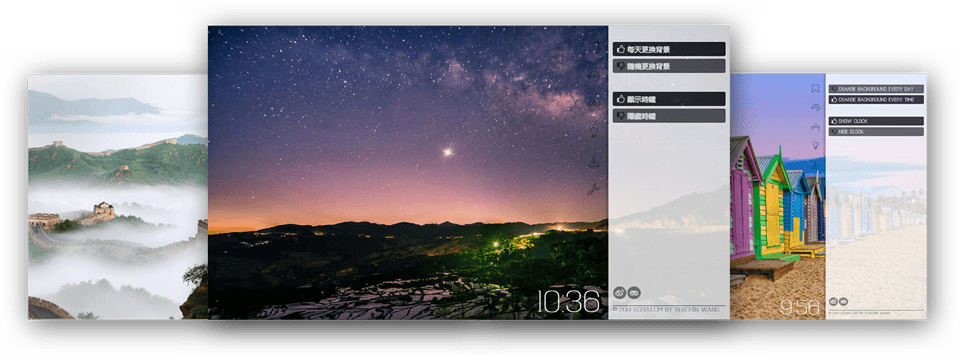
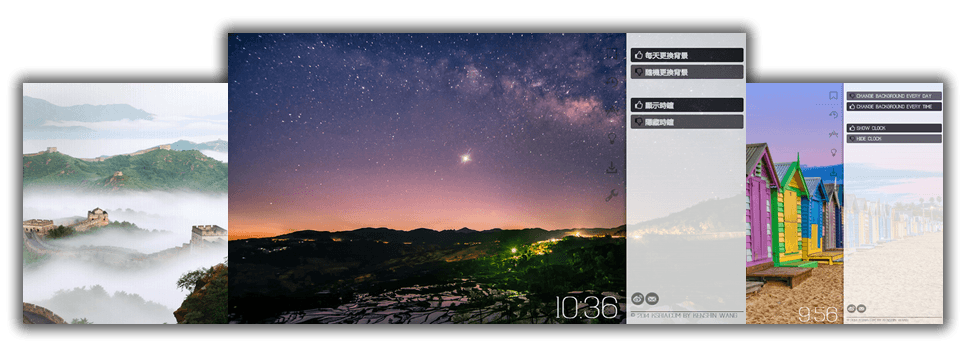
optimize design

diff --git a/assets/css/main.css b/assets/css/main.css
@@ -1,1 +1,1 @@
-@font-face{src:url("../font/en.otf") format(opentype);font-family:en}html{width:100%;height:100%}body{display:-webkit-box;display:-moz-box;display:-o-box;display:-ms-box;-webkit-box-flex:1;-moz-box-flex:1;-o-box-flex:1;-ms-box-flex:1;-webkit-box-orient:vertical;-moz-box-orient:vertical;-o-box-orient:vertical;-ms-box-orient:vertical;width:100%;height:100%;margin:0;padding:0;font-family:en;font-weight:bold;background:url("/assets/image/bg.png") repeat;}body div{display:-webkit-box;display:-moz-box;display:-o-box;display:-ms-box;-webkit-box-pack:center;-moz-box-pack:center;-o-box-pack:center;-ms-box-pack:center;-webkit-box-align:center;-moz-box-align:center;-o-box-align:center;-ms-box-align:center}hr{width:100%;height:1px;border:0;background-image:-webkit-linear-gradient(left,rgba(0,0,0,0),rgba(0,0,0,0.1),rgba(0,0,0,0))}.top{height:50px}.title h1{font-size:50px}.title span{display:block;position:relative;left:181px;bottom:64px;width:24px;height:24px;background:url("/assets/image/chrome.png") no-repeat}.download{display:-webkit-box;display:-moz-box;display:-o-box;display:-ms-box;-webkit-box-align:end;-moz-box-align:end;-o-box-align:end;-ms-box-align:end;padding:0 0 33px 0}.btn-download{display:-webkit-box;display:-moz-box;display:-o-box;display:-ms-box;padding:15px;color:#fff;font-size:43px;text-shadow:#136491 0 1px 2px;text-decoration:none;background:linear-gradient(to bottom,#2fa6e4,#2292cc) #2292cc repeat-x;border-color:#066397;-webkit-box-shadow:inset 0 1px 0 rgba(255,255,255,0.2);-moz-box-shadow:inset 0 1px 0 rgba(255,255,255,0.2);-o-box-shadow:inset 0 1px 0 rgba(255,255,255,0.2);-ms-box-shadow:inset 0 1px 0 rgba(255,255,255,0.2);border-radius:6px;-webkit-border-radius:6px;-moz-border-radius:6px;-o-border-radius:6px;-ms-border-radius:6px;}.btn-download span{display:block;width:48px;height:48px;background:url("/assets/image/webstore.png") no-repeat}.btn-download:hover{text-decoration:none;background-position:0 -15px;transition:background-position .1s linear;-webkit-transition:background-position .1s linear;-moz-transition:background-position .1s linear;-o-transition:background-position .1s linear;-ms-transition:background-position .1s linear}.btn-offline-download{padding:0 2px;text-decoration:none;color:#000;}.btn-offline-download:hover{background-color:rgba(0,0,0,0.4);transition:background-color 1s ease;-webkit-transition:background-color 1s ease;-moz-transition:background-color 1s ease;-o-transition:background-color 1s ease;-ms-transition:background-color 1s ease;border-radius:3px;-webkit-border-radius:3px;-moz-border-radius:3px;-o-border-radius:3px;-ms-border-radius:3px}.smaller{font-size:10px}.main{padding:0 0 33px 0;}.main div{-webkit-box-orient:vertical;-moz-box-orient:vertical;-o-box-orient:vertical;-ms-box-orient:vertical}.main img{width:960px;height:335px;border:0;padding:0 0 33px 0}.content{width:100%;-webkit-box-align:start;-moz-box-align:start;-o-box-align:start;-ms-box-align:start;}.content ul{width:100%;}.content ul li{display:-webkit-box;display:-moz-box;display:-o-box;display:-ms-box;-webkit-box-orient:horizontal;-moz-box-orient:horizontal;-o-box-orient:horizontal;-ms-box-orient:horizontal;-webkit-box-flex:1;-moz-box-flex:1;-o-box-flex:1;-ms-box-flex:1;-webkit-box-align:center;-moz-box-align:center;-o-box-align:center;-ms-box-align:center;list-style:none;width:100%;}.content ul li div{width:410px;height:270px}.content ul li span{display:-webkit-box;display:-moz-box;display:-o-box;display:-ms-box;-webkit-box-flex:1;-moz-box-flex:1;-o-box-flex:1;-ms-box-flex:1;-webkit-box-align:center;-moz-box-align:center;-o-box-align:center;-ms-box-align:center}.content ul li:nth-of-type(even){-webkit-box-pack:end;-moz-box-pack:end;-o-box-pack:end;-ms-box-pack:end}.content ul li:nth-of-type(1) div{background:url("/assets/image/mutil-language.png") no-repeat}.content ul li:nth-of-type(2) div{background:url("/assets/image/infomation.png") no-repeat}.content ul li:nth-of-type(2) span{-webkit-box-pack:end;-moz-box-pack:end;-o-box-pack:end;-ms-box-pack:end}.content ul li:nth-of-type(3) div{background:url("/assets/image/download.png") no-repeat}.footer{-webkit-box-orient:vertical;-moz-box-orient:vertical;-o-box-orient:vertical;-ms-box-orient:vertical;background-color:#333;color:#fff;}.footer .copyright{padding:0 0 10px 0}.footer a{padding:0 2px;color:#fff;}.footer a:hover{color:#000;background-color:#ffff9b;transition:background-color 1s ease;-webkit-transition:background-color 1s ease;-moz-transition:background-color 1s ease;-o-transition:background-color 1s ease;-ms-transition:background-color 1s ease;border-radius:3px;-webkit-border-radius:3px;-moz-border-radius:3px;-o-border-radius:3px;-ms-border-radius:3px}.footer ul{display:-webkit-box;display:-moz-box;display:-o-box;display:-ms-box;-webkit-box-orient:horizontal;-moz-box-orient:horizontal;-o-box-orient:horizontal;-ms-box-orient:horizontal;-webkit-box-sizing:border-box;-moz-box-sizing:border-box;-o-box-sizing:border-box;-ms-box-sizing:border-box;-webkit-box-pack:center;-moz-box-pack:center;-o-box-pack:center;-ms-box-pack:center;list-style:none;}.footer ul li{display:-webkit-box;display:-moz-box;display:-o-box;display:-ms-box;-webkit-box-flex:1;-moz-box-flex:1;-o-box-flex:1;-ms-box-flex:1;-webkit-box-orient:vertical;-moz-box-orient:vertical;-o-box-orient:vertical;-ms-box-orient:vertical;width:480px;padding:5px;}.footer ul li div{-webkit-box-pack:start;-moz-box-pack:start;-o-box-pack:start;-ms-box-pack:start;-webkit-box-flex:1;-moz-box-flex:1;-o-box-flex:1;-ms-box-flex:1}.footer ul li:nth-child(2) .photo{display:block;width:46px;height:46px;border-radius:50%;-webkit-border-radius:50%;-moz-border-radius:50%;-o-border-radius:50%;-ms-border-radius:50%;background:url("/assets/image/photo.jpg") no-repeat}.footer ul li:nth-child(2) div div{display:-webkit-box;display:-moz-box;display:-o-box;display:-ms-box;-webkit-box-orient:vertical;-moz-box-orient:vertical;-o-box-orient:vertical;-ms-box-orient:vertical;-webkit-box-align:start;-moz-box-align:start;-o-box-align:start;-ms-box-align:start;padding:0 5px;}.footer ul li:nth-child(2) div div p{margin:0}.footer ul li:nth-child(2) div div nav{display:-webkit-box;display:-moz-box;display:-o-box;display:-ms-box;padding:0;}.footer ul li:nth-child(2) div div nav a{padding:0}.footer ul li:nth-child(2) div div nav span[class$="-icon"]{display:block;width:24px;height:24px;padding-right:5px;opacity:.4;}.footer ul li:nth-child(2) div div nav span[class$="-icon"]:hover{transition:opacity .3s ease;-webkit-transition:opacity .3s ease;-moz-transition:opacity .3s ease;-o-transition:opacity .3s ease;-ms-transition:opacity .3s ease;opacity:1}.footer ul li:nth-child(2) div div nav .weibo-icon{background:url("/assets/image/weibo-icon.png") no-repeat}.footer ul li:nth-child(2) div div nav .douban-icon{background:url("/assets/image/douban-icon.png") no-repeat}.footer ul li:nth-child(2) div div nav .gplus-icon{background:url("/assets/image/gplus-icon.png") no-repeat}.footer ul li:nth-child(2) div div nav .linkin-icon{background:url("/assets/image/linkin-icon.png") no-repeat}.footer ul li:nth-child(2) div div nav span[class^="weibo"]:hover{background:url("/assets/image/weibo-hover-icon.png") no-repeat}.footer ul li:nth-child(2) div div nav span[class^="douban"]:hover{background:url("/assets/image/douban-hover-icon.png") no-repeat}.footer ul li:nth-child(2) div div nav span[class^="gplus"]:hover{background:url("/assets/image/gplus-hover-icon.png") no-repeat}.footer ul li:nth-child(2) div div nav span[class^="linkin"]:hover{background:url("/assets/image/linkin-hover-icon.png") no-repeat}
+@font-face{src:url("../font/en.otf") format(opentype);font-family:en}html{width:100%;height:100%}body{display:-webkit-box;display:-moz-box;display:-o-box;display:-ms-box;-webkit-box-flex:1;-moz-box-flex:1;-o-box-flex:1;-ms-box-flex:1;-webkit-box-orient:vertical;-moz-box-orient:vertical;-o-box-orient:vertical;-ms-box-orient:vertical;width:100%;height:100%;margin:0;padding:0;font-family:en;font-weight:bold;background:url("/assets/image/bg.png") repeat;}body div{display:-webkit-box;display:-moz-box;display:-o-box;display:-ms-box;-webkit-box-pack:center;-moz-box-pack:center;-o-box-pack:center;-ms-box-pack:center;-webkit-box-align:center;-moz-box-align:center;-o-box-align:center;-ms-box-align:center}hr{width:100%;height:1px;border:0;background-image:-webkit-linear-gradient(left,rgba(0,0,0,0),rgba(0,0,0,0.1),rgba(0,0,0,0));margin:30px 0}.top{height:50px}.title h1{font-size:50px}.title span{display:block;position:relative;left:181px;bottom:64px;width:24px;height:24px;background:url("/assets/image/chrome.png") no-repeat}.download{display:-webkit-box;display:-moz-box;display:-o-box;display:-ms-box;-webkit-box-align:end;-moz-box-align:end;-o-box-align:end;-ms-box-align:end;padding:0 0 33px 0}.btn-download{display:-webkit-box;display:-moz-box;display:-o-box;display:-ms-box;padding:15px;color:#fff;font-size:43px;text-shadow:#136491 0 1px 2px;text-decoration:none;background:linear-gradient(to bottom,#2fa6e4,#2292cc) #2292cc repeat-x;border-color:#066397;-webkit-box-shadow:inset 0 1px 0 rgba(255,255,255,0.2);-moz-box-shadow:inset 0 1px 0 rgba(255,255,255,0.2);-o-box-shadow:inset 0 1px 0 rgba(255,255,255,0.2);-ms-box-shadow:inset 0 1px 0 rgba(255,255,255,0.2);border-radius:6px;-webkit-border-radius:6px;-moz-border-radius:6px;-o-border-radius:6px;-ms-border-radius:6px;}.btn-download span{display:block;width:48px;height:48px;background:url("/assets/image/webstore.png") no-repeat}.btn-download:hover{text-decoration:none;background-position:0 -15px;transition:background-position .1s linear;-webkit-transition:background-position .1s linear;-moz-transition:background-position .1s linear;-o-transition:background-position .1s linear;-ms-transition:background-position .1s linear}.btn-offline-download{padding:0 2px;text-decoration:none;color:#000;}.btn-offline-download:hover{background-color:rgba(0,0,0,0.4);transition:background-color 1s ease;-webkit-transition:background-color 1s ease;-moz-transition:background-color 1s ease;-o-transition:background-color 1s ease;-ms-transition:background-color 1s ease;border-radius:3px;-webkit-border-radius:3px;-moz-border-radius:3px;-o-border-radius:3px;-ms-border-radius:3px}.smaller{font-size:10px}.main{padding:0 0 33px 0;}.main div{-webkit-box-orient:vertical;-moz-box-orient:vertical;-o-box-orient:vertical;-ms-box-orient:vertical}.main img{width:960px;height:335px;border:0;padding:0 0 33px 0}.content{width:100%;-webkit-box-align:start;-moz-box-align:start;-o-box-align:start;-ms-box-align:start;}.content ul{width:100%;}.content ul li{display:-webkit-box;display:-moz-box;display:-o-box;display:-ms-box;-webkit-box-orient:horizontal;-moz-box-orient:horizontal;-o-box-orient:horizontal;-ms-box-orient:horizontal;-webkit-box-flex:1;-moz-box-flex:1;-o-box-flex:1;-ms-box-flex:1;-webkit-box-align:center;-moz-box-align:center;-o-box-align:center;-ms-box-align:center;list-style:none;width:100%;}.content ul li div{width:350px;height:175px}.content ul li span{display:-webkit-box;display:-moz-box;display:-o-box;display:-ms-box;-webkit-box-flex:1;-moz-box-flex:1;-o-box-flex:1;-ms-box-flex:1;-webkit-box-align:center;-moz-box-align:center;-o-box-align:center;-ms-box-align:center}.content ul li:nth-of-type(even){-webkit-box-pack:end;-moz-box-pack:end;-o-box-pack:end;-ms-box-pack:end}.content ul li:nth-of-type(1) div{background:url("/assets/image/mutil-language.png") no-repeat}.content ul li:nth-of-type(2) div{background:url("/assets/image/infomation.png") no-repeat}.content ul li:nth-of-type(2) span{-webkit-box-pack:end;-moz-box-pack:end;-o-box-pack:end;-ms-box-pack:end}.content ul li:nth-of-type(3) div{background:url("/assets/image/download.png") no-repeat}.footer{-webkit-box-orient:vertical;-moz-box-orient:vertical;-o-box-orient:vertical;-ms-box-orient:vertical;background-color:#333;color:#fff;}.footer .copyright{padding:0 0 10px 0}.footer a{padding:0 2px;color:#fff;}.footer a:hover{color:#000;background-color:#ffff9b;transition:background-color 1s ease;-webkit-transition:background-color 1s ease;-moz-transition:background-color 1s ease;-o-transition:background-color 1s ease;-ms-transition:background-color 1s ease;border-radius:3px;-webkit-border-radius:3px;-moz-border-radius:3px;-o-border-radius:3px;-ms-border-radius:3px}.footer ul{display:-webkit-box;display:-moz-box;display:-o-box;display:-ms-box;-webkit-box-orient:horizontal;-moz-box-orient:horizontal;-o-box-orient:horizontal;-ms-box-orient:horizontal;-webkit-box-sizing:border-box;-moz-box-sizing:border-box;-o-box-sizing:border-box;-ms-box-sizing:border-box;-webkit-box-pack:center;-moz-box-pack:center;-o-box-pack:center;-ms-box-pack:center;list-style:none;}.footer ul li{display:-webkit-box;display:-moz-box;display:-o-box;display:-ms-box;-webkit-box-flex:1;-moz-box-flex:1;-o-box-flex:1;-ms-box-flex:1;-webkit-box-orient:vertical;-moz-box-orient:vertical;-o-box-orient:vertical;-ms-box-orient:vertical;width:480px;padding:5px;}.footer ul li div{-webkit-box-pack:start;-moz-box-pack:start;-o-box-pack:start;-ms-box-pack:start;-webkit-box-flex:1;-moz-box-flex:1;-o-box-flex:1;-ms-box-flex:1}.footer ul li:nth-child(2) .photo{display:block;width:46px;height:46px;border-radius:50%;-webkit-border-radius:50%;-moz-border-radius:50%;-o-border-radius:50%;-ms-border-radius:50%;background:url("/assets/image/photo.jpg") no-repeat}.footer ul li:nth-child(2) div div{display:-webkit-box;display:-moz-box;display:-o-box;display:-ms-box;-webkit-box-orient:vertical;-moz-box-orient:vertical;-o-box-orient:vertical;-ms-box-orient:vertical;-webkit-box-align:start;-moz-box-align:start;-o-box-align:start;-ms-box-align:start;padding:0 5px;}.footer ul li:nth-child(2) div div p{margin:0}.footer ul li:nth-child(2) div div nav{display:-webkit-box;display:-moz-box;display:-o-box;display:-ms-box;padding:0;}.footer ul li:nth-child(2) div div nav a{padding:0}.footer ul li:nth-child(2) div div nav span[class$="-icon"]{display:block;width:24px;height:24px;padding-right:5px;opacity:.4;}.footer ul li:nth-child(2) div div nav span[class$="-icon"]:hover{transition:opacity .3s ease;-webkit-transition:opacity .3s ease;-moz-transition:opacity .3s ease;-o-transition:opacity .3s ease;-ms-transition:opacity .3s ease;opacity:1}.footer ul li:nth-child(2) div div nav .weibo-icon{background:url("/assets/image/weibo-icon.png") no-repeat}.footer ul li:nth-child(2) div div nav .douban-icon{background:url("/assets/image/douban-icon.png") no-repeat}.footer ul li:nth-child(2) div div nav .gplus-icon{background:url("/assets/image/gplus-icon.png") no-repeat}.footer ul li:nth-child(2) div div nav .linkin-icon{background:url("/assets/image/linkin-icon.png") no-repeat}.footer ul li:nth-child(2) div div nav span[class^="weibo"]:hover{background:url("/assets/image/weibo-hover-icon.png") no-repeat}.footer ul li:nth-child(2) div div nav span[class^="douban"]:hover{background:url("/assets/image/douban-hover-icon.png") no-repeat}.footer ul li:nth-child(2) div div nav span[class^="gplus"]:hover{background:url("/assets/image/gplus-hover-icon.png") no-repeat}.footer ul li:nth-child(2) div div nav span[class^="linkin"]:hover{background:url("/assets/image/linkin-hover-icon.png") no-repeat}
